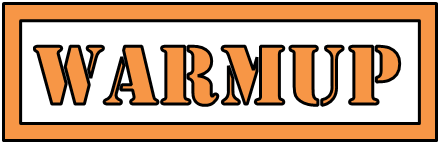
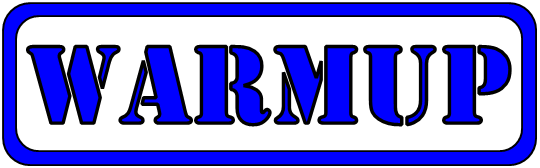
added new images including Challenge
Fixed innings no showing up b/c of wrong if condition and added new
images that are dif colors

diff --git a/index.html b/index.html
@@ -57,8 +57,8 @@
                             <table class="">
                                 <tr class="">
                                     <th class="player-photo" rowspan="2"><img src="http://mlb.mlb.com/images/gameday/mugshots/mlb/{{x.id}}.jpg" /></th>
-                                    <th class="" colspan="2"><span class="player-label">{{ x.name_display_first_last }}, {{x.pos}}</span><span class="game-info status-indicators" ng-if="gameinfo.status_ind == 'F' || gameinfo.status_ind == 'O' || gameinfo.status_ind == 'IR' || gameinfo.status_ind == 'I'"> {{getGamesScore(gameinfo)}}<span ng-if="gameinfo.status_ind != 'F' && gameinfo.status_ind != 'O'  && gameinfo.status_ind != 'DR'">, <b>{{ getInning(gameinfo) }}</b></span></span> <img ng-if="gameinfo.status_ind == 'PW'" class="status-indicators" width="50" src="..\Baseball\images\pictures\warmUp.png" /> <img ng-if="gameinfo.status_ind == 'F' || gameinfo.status_ind == 'O'" class="status-indicators" width="50" src="..\Baseball\images\pictures\Final.png" />
-                                        <blink ng-if="gameinfo.status_ind == 'DR' || gameinfo.status_ind == 'IR'"><img ng-if="gameinfo.status_ind == 'DR'" class="status-indicators" width="50" src="..\Baseball\images\pictures\PPD.png" /><img ng-if="gameinfo.status_ind == 'IR'" class="status-indicators" width="50" src="..\Baseball\images\pictures\Delay.png" /></blink>
+                                    <th class="" colspan="2"><span class="player-label">{{ x.name_display_first_last }}, {{x.pos}}</span><span class="game-info status-indicators" ng-if="gameinfo.status_ind == 'F' || gameinfo.status_ind == 'O' || gameinfo.status_ind == 'IR' || gameinfo.status_ind == 'I'|| gameinfo.status_ind == 'MA'"> {{getGamesScore(gameinfo)}}<span ng-if="gameinfo.status_ind != 'F' && gameinfo.status_ind != 'O'  && gameinfo.status_ind != 'DR'">, <b>{{ getInning(gameinfo) }}</b></span></span> <img ng-if="gameinfo.status_ind == 'PW'" class="status-indicators" width="50" src="..\Baseball\images\pictures\Warmup.png" /> <img ng-if="gameinfo.status_ind == 'F' || gameinfo.status_ind == 'O'" class="status-indicators" width="50" src="..\Baseball\images\pictures\Final.png" />
+                                        <blink ng-if="gameinfo.status_ind == 'DR' || gameinfo.status_ind == 'IR' || gameinfo.status_ind == 'MA'"><img ng-if="gameinfo.status_ind == 'DR'" class="status-indicators" width="50" src="..\Baseball\images\pictures\PPD.png" /><img ng-if="gameinfo.status_ind == 'IR'" class="status-indicators" width="50" src="..\Baseball\images\pictures\Delay.png" /><img ng-if="gameinfo.status_ind == 'MA'" class="status-indicators" width="50" src="..\Baseball\images\pictures\Challenge.png" /></blink>
                                         <!-- {{x.id + '-' + $parent.$parent.$parent.$parent.$index + $parent.$parent.$parent.$index + $parent.$parent.$index + $parent.$index}} -->
                                     </th>
                                     <th style="float:right">
